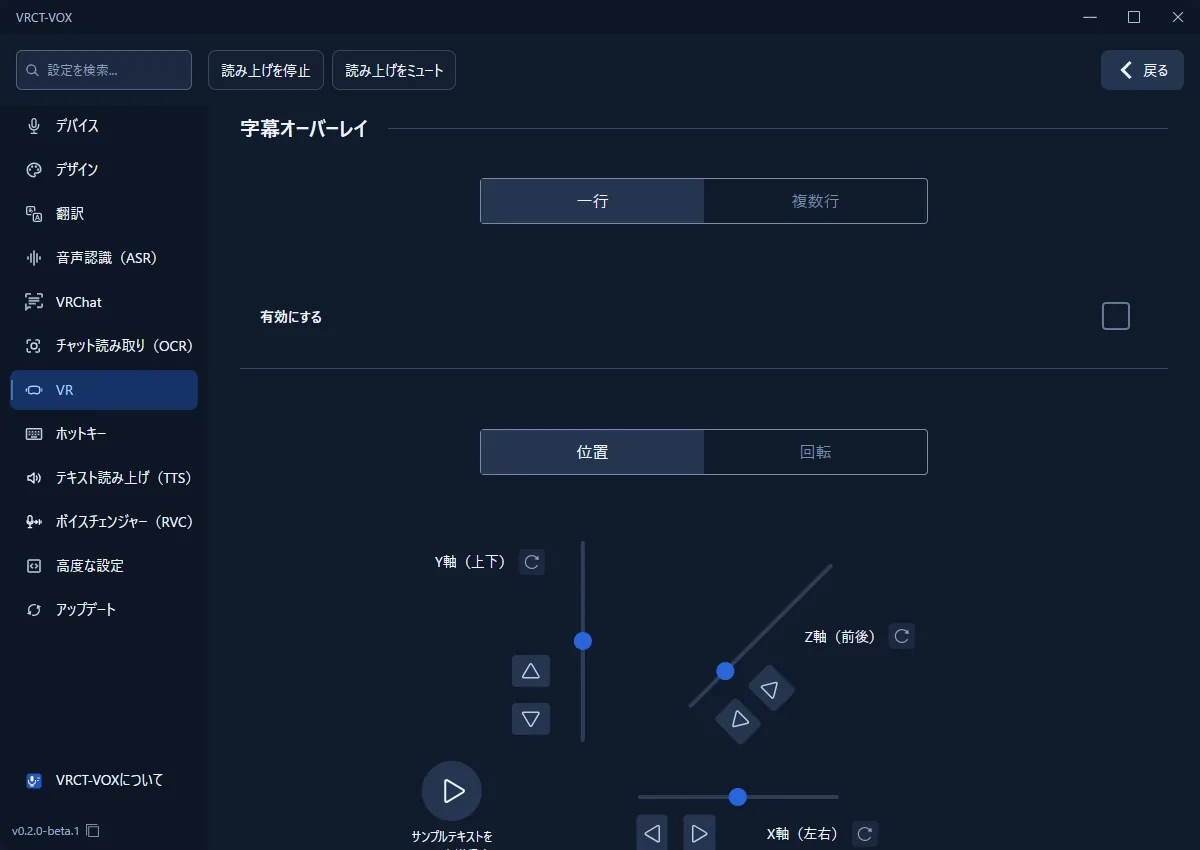
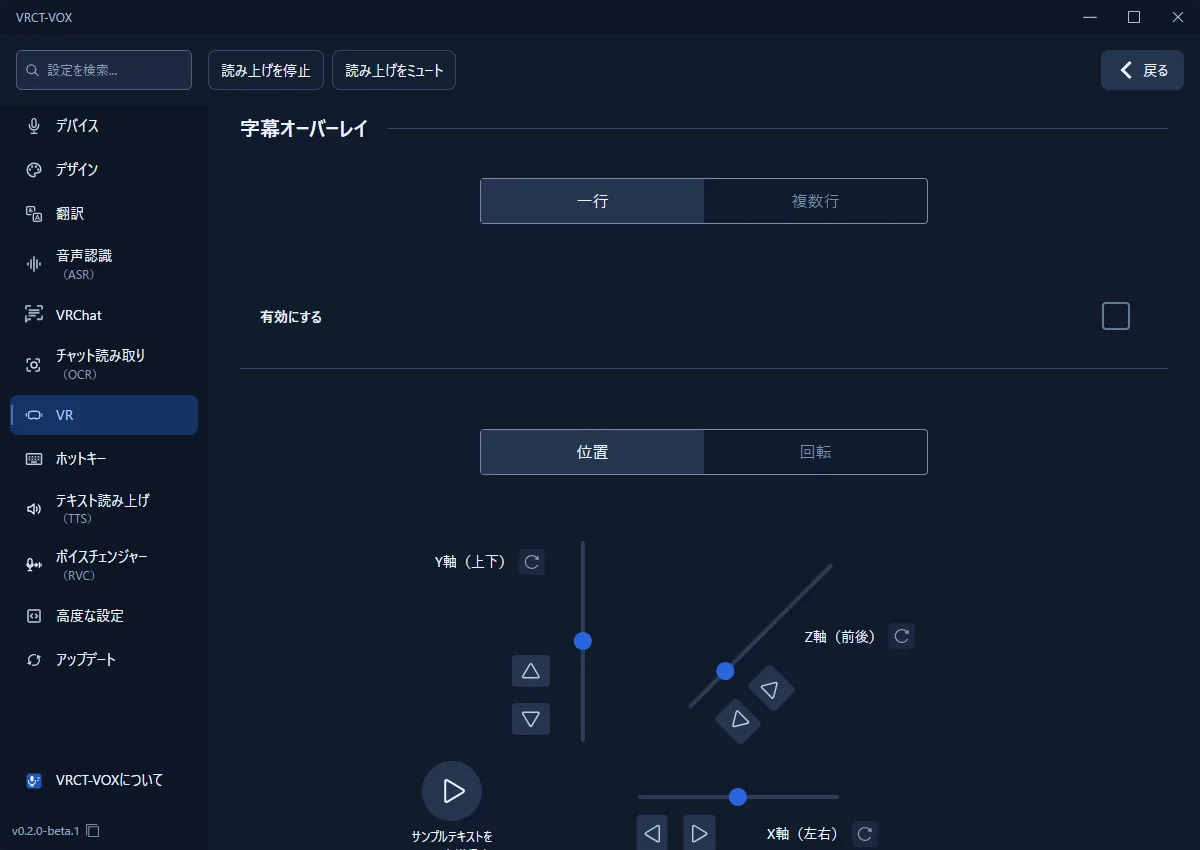
fix(ui): keep long feature names whole in the settings menu and the VR panel
The settings menu cut "Speech recognition (ASR)" and the other long names
off at the rail's edge, and the VR panel's categories broke them inside a
word. Both now put the short name in brackets on a line of its own. The
documentation screenshots are retaken with the new menu.

Changed region(s): [[0.0, 0.2753, 0.185, 0.6729], [0.0, 0.7035, 0.0925, 0.7341], [0.0308, 0.7647, 0.0925, 0.7953]]

diff --git a/src-ui/views/app/config_page/settingsFirstThings.test.js b/src-ui/views/app/config_page/settingsFirstThings.test.js
@@ -3,6 +3,7 @@ import { test } from "node:test";
 import { readFileSync } from "node:fs";
 import yaml from "js-yaml";
 import { hooks, loadModule, find } from "../../../logics/test/hookHarness.js";
+import * as featureLabel from "../../../logics/common/featureLabel.js";
 
 const all = (tree, predicate, found = []) => { find(tree, node => { if (predicate(node)) found.push(node); return false; }); return found; };
 const icon = name => Object.assign(() => null, { icon: name });
@@ -38,6 +39,7 @@ test("the side menu lists chat reading after VRChat, with an icon of its own and
             useStore_IsBreakPoint: () => ({ currentIsBreakPoint: { data: false } }) },
         ...Object.fromEntries(images.map(name => [`@images/${name}.svg?react`, svg(`${name}.svg?react`)])),
         "@images/brand/icon-small.svg": "brand", "../version_label/VersionLabel.jsx": { VersionLabel: "version" },
+        "../../../../logics/common/featureLabel.js": featureLabel,
     });
     const tabs = all(runtime.render(sidebar.SidebarSection), node => typeof node.props?.tab_id === "string").map(node => node.props.tab_id);
     assert.deepEqual(tabs.slice(tabs.indexOf("vrchat"), tabs.indexOf("vrchat") + 3), ["vrchat", "ocr", "vr"]);
@@ -49,6 +51,27 @@ test("the side menu lists chat reading after VRChat, with an icon of its own and
         assert.equal(typeof strings.config_page.side_menu_labels.ocr, "string");
         for (const key of ["provider_in_use", "provider_ready", "provider_not_set"]) assert.equal(typeof strings.config_page.translation[key], "string");
     }
+});
+
+test("a long settings menu name breaks before its bracket and keeps its whole name for screen readers", async () => {
+    const runtime = hooks();
+    const names = { "config_page.side_menu_labels.transcription": "Speech recognition (ASR)" };
+    const svg = name => icon(name);
+    const images = ["mic", "tts_speaker", "voice_conversion", "mui_palette", "translation", "mui_graphic_eq", "mui_head_mounted_device",
+        "mui_keyboard_alt", "mui_code_blocks", "refresh", "chat_transcribe", "mui_document_scanner"];
+    const sidebar = await loadModule(new URL("./sidebar_section/SidebarSection.jsx", import.meta.url), runtime, {
+        "@useI18n": { useI18n: () => ({ t: key => names[key] ?? key }) },
+        "@store": { useStore_SelectedConfigTabId: () => ({ currentSelectedConfigTabId: { data: "device" }, updateSelectedConfigTabId() {} }),
+            useStore_IsBreakPoint: () => ({ currentIsBreakPoint: { data: false } }) },
+        ...Object.fromEntries(images.map(name => [`@images/${name}.svg?react`, svg(`${name}.svg?react`)])),
+        "@images/brand/icon-small.svg": "brand", "../version_label/VersionLabel.jsx": { VersionLabel: "version" },
+        "../../../../logics/common/featureLabel.js": featureLabel,
+    });
+    const [tab] = all(runtime.render(sidebar.SidebarSection), node => node.props?.tab_id === "transcription");
+    const tree = runtime.render(tab.type, tab.props);
+    assert.ok(find(tree, node => node.props?.["aria-label"] === "Speech recognition (ASR)"));
+    assert.ok(find(tree, node => node.type === "span" && node.props?.children === "(ASR)"));
+    assert.ok(find(tree, node => Array.isArray(node.props?.children) && node.props.children[0] === "Speech recognition"));
 });
 
 test("speech recognition opens on the engine choice; the timing numbers follow, folded under a line that shows them", async () => {

diff --git a/src-ui/views/vr/VrSettingsWindow.jsx b/src-ui/views/vr/VrSettingsWindow.jsx
@@ -24,6 +24,7 @@ import { buildComputeDeviceOptions } from "../app/config_page/setting_section/se
 import { CLOUD_TRANSCRIPTION_ENGINES } from "../../logics/configs/cloudTranscription";
 import { isNonCommercialWeight } from "../../logics/configs/ctranslate2License";
 import styles from "./VrSettingsWindow.module.scss";
+import { splitFeatureLabel } from "../../logics/common/featureLabel.js";
 
 // 左のカテゴリはデスクトップの設定画面と同じ順序・名前・アイコン。VRでは文字入力が要る項目
 // (APIキー、URL、単語フィルターなど) と、モデルのダウンロードは載せない
@@ -113,7 +114,7 @@ export const VrSettingsWindow = ({ onClose }) => {
                                 onClick={() => { savedScroll.current = 0; triggerRef.current = null; setCategory(id); setPicker(null); }}
                             >
                                 <Icon className={styles.category_icon} aria-hidden="true" />
-                                <span className={styles.category_label}>{category_label(id)}</span>
+                                <CategoryName text={category_label(id)} />
                             </button>
                         ))}
                     </div>
@@ -420,4 +421,10 @@ const OcrSettings = ({ t, openPicker }) => {
                 setValue={ocr.setOcrBubbleMinTextLength} min={1} max={50} step={1} />
         </>
     );
+};
+
+// A long name breaks before its short name in brackets, never inside a word.
+const CategoryName = ({ text }) => {
+    const { name, abbr } = splitFeatureLabel(text);
+    return <span className={styles.category_label}>{name}{abbr && <span className={styles.category_abbr}>{abbr}</span>}</span>;
 };

diff --git a/src-ui/views/vr/VrPickerList.test.js b/src-ui/views/vr/VrPickerList.test.js
@@ -1,4 +1,5 @@
 import assert from "node:assert/strict";
+import * as featureLabel from "../../logics/common/featureLabel.js";
 import { test } from "node:test";
 import React from "react";
 import { hooks, loadModule, find, stubGlobals, eventTarget } from "../../logics/test/hookHarness.js";
@@ -456,6 +457,7 @@ test("font selection reaches the existing appearance setter and closes the setti
     });
     const { VrSettingsWindow } = await loadModule(new URL("./VrSettingsWindow.jsx", import.meta.url), runtime, {
         "../../logics/common/languageNames.js": languageNames,
+        "../../logics/common/featureLabel.js": featureLabel,
         "@useI18n": { useI18n: () => ({ t: key => key, i18n: { language: "en" } }) },
         "@logics_common": { useIsOpenedConfigPage: () => ({ currentIsOpenedConfigPage: { data: true } }) },
         "@logics_configs": { useAppearance: () => ({ currentUiLanguage: { data: "en" },
@@ -474,7 +476,7 @@ test("font selection reaches the existing appearance setter and closes the setti
         if (picker) picker.ref.current = h.scroll;
     });
     let tree = render();
-    find(tree, node => node.type === "button" && find(node, child => child.props?.children === "config_page.side_menu_labels.appearance")).props.onClick();
+    find(tree, node => node.type === "button" && find(node, child => child.props?.text === "config_page.side_menu_labels.appearance")).props.onClick();
     tree = render();
     const category = find(tree, node => node.type?.name === "Category");
     const appearance = category.type(category.props);

diff --git a/src-ui/views/app/config_page/sidebar_section/SidebarSection.jsx b/src-ui/views/app/config_page/sidebar_section/SidebarSection.jsx
@@ -23,6 +23,7 @@ import DocumentScannerSvg from "@images/mui_document_scanner.svg?react";
 import vrct_vox_icon from "@images/brand/icon-small.svg";
 
 import { VersionLabel } from "../version_label/VersionLabel.jsx";
+import { splitFeatureLabel } from "../../../../logics/common/featureLabel.js";
 
 // Keyboard focus expands the rail; focus from a click or from opening the page does
 // not, or the rail would stay over the page after the pointer left. A focus counts as
@@ -124,6 +125,8 @@ const Tab = (props) => {
         if (props.tab_id === "vr") return "VR";
         return t(`config_page.side_menu_labels.${props.tab_id}`);
     };
+    // A long name breaks before its short name in brackets, never inside a word.
+    const label = splitFeatureLabel(getLabel());
 
     return (
         <button type="button" className={tab_container_class_names} aria-label={getLabel()} aria-current={is_selected ? "page" : undefined}
@@ -133,7 +136,7 @@ const Tab = (props) => {
             </div>
             <p className={clsx(styles.tab_text, {
                 [styles.hide]: props.isSmall && !props.isHovered
-            })}>{getLabel()}</p>
+            })}>{label.name}{label.abbr && <span className={styles.tab_text_abbr}>{label.abbr}</span>}</p>
             <div className={switch_indicator_class_names}></div>
         </button>
     );

diff --git a/src-ui/views/app/config_page/sidebar_section/SidebarSection.module.scss b/src-ui/views/app/config_page/sidebar_section/SidebarSection.module.scss
@@ -145,7 +145,14 @@
     }
 }
 
-// One line: while the rail is narrow, a wrapping label would stretch the tab.
+// The short name in brackets goes on its own line: 「音声認識」 then 「（ASR）」. Each line stays whole.
+.tab_text_abbr {
+    display: block;
+    font-size: 1.2rem;
+    color: var(--vox_description_text);
+}
+
+// One line per part: while the rail is narrow, a wrapping label would stretch the tab.
 .tab_text {
     font-size: 1.4rem;
     position: relative;

diff --git a/src-ui/views/vr/VrSettingsWindow.module.scss b/src-ui/views/vr/VrSettingsWindow.module.scss
@@ -159,11 +159,17 @@
     font-size: 17px;
     text-align: left;
     line-height: 1.2;
+    word-break: keep-all;
     overflow-wrap: anywhere;
     display: -webkit-box;
     -webkit-box-orient: vertical;
-    -webkit-line-clamp: 2;
+    -webkit-line-clamp: 3;
     overflow: hidden;
+}
+// The short name in brackets, on its own line under the name.
+.category_abbr {
+    display: block;
+    font-size: 14px;
 }
 
 // ---- 右の一覧の行 ----
